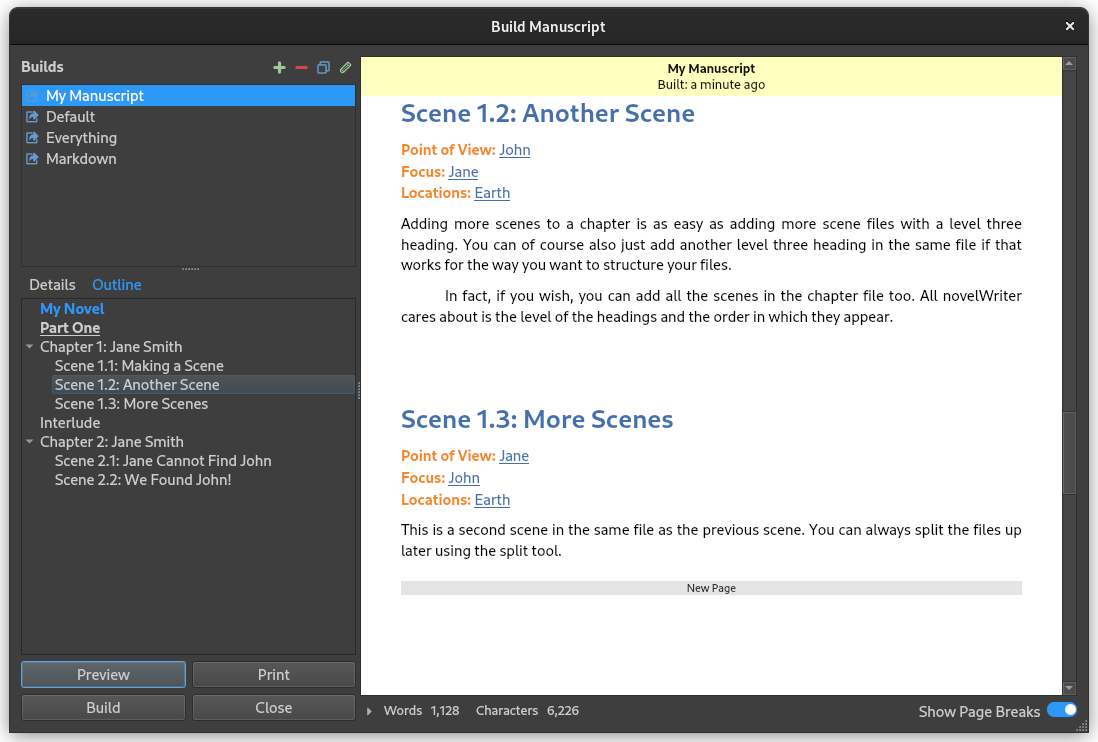
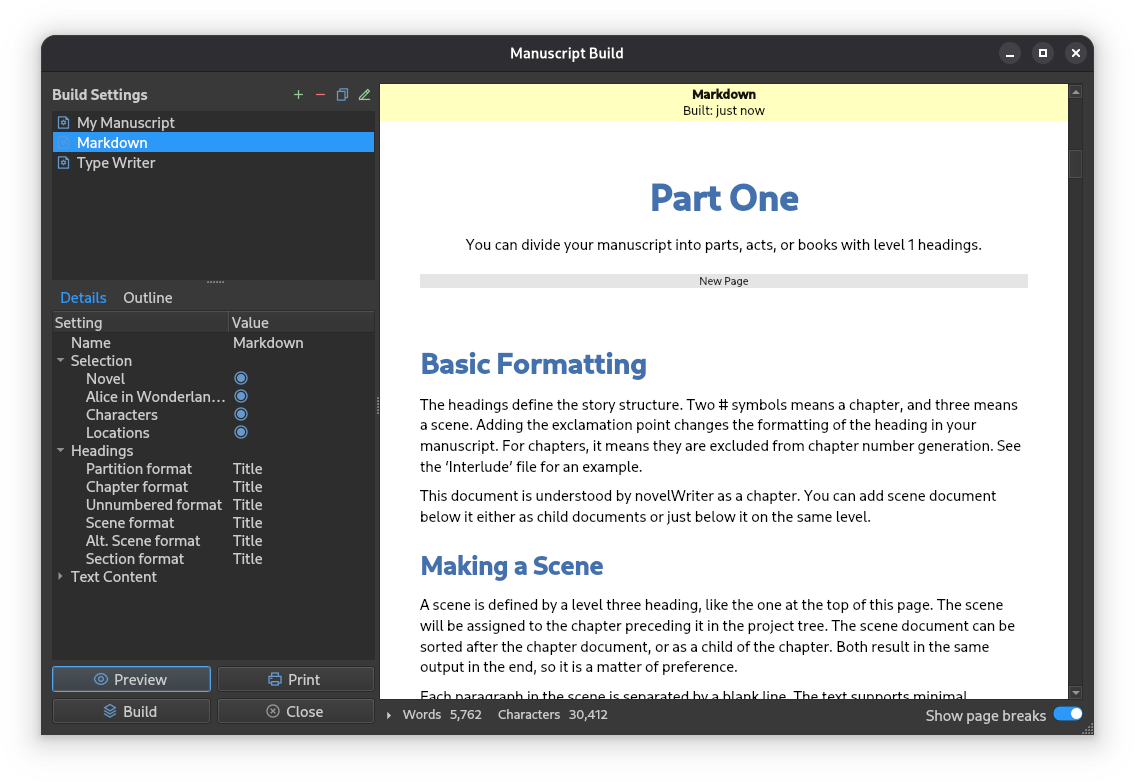
Update the manuscript build dialogs and the screenshots in docs

diff --git a/novelwriter/tools/manusbuild.py b/novelwriter/tools/manusbuild.py
@@ -1,5 +1,5 @@
 """
-novelWriter – GUI Manuscript Build
+novelWriter – GUI Build Manuscript
 ==================================
 
 File History:
@@ -56,10 +56,10 @@ logger = logging.getLogger(__name__)
 
 
 class GuiManuscriptBuild(NDialog):
-    """GUI Tools: Manuscript Build Dialog.
+    """GUI Tools: Build Manuscript Dialog.
 
     This is the tool for running the build itself. It can be accessed
-    independently of the Manuscript Build Tool.
+    independently of the Build Manuscript Tool.
     """
 
     D_KEY = QtUserRole
@@ -73,7 +73,7 @@ class GuiManuscriptBuild(NDialog):
         self._parent = parent
         self._build = build
 
-        self.setWindowTitle(self.tr("Manuscript Build"))
+        self.setWindowTitle(self.tr("Build Manuscript"))
         self.setMinimumWidth(500)
         self.setMinimumHeight(300)
 

diff --git a/novelwriter/tools/manuscript.py b/novelwriter/tools/manuscript.py
@@ -117,7 +117,7 @@ class GuiManuscript(NToolDialog):
         self.tbEdit.setToolTip(self.tr("Edit Selected Build"))
         self.tbEdit.clicked.connect(self._editSelectedBuild)
 
-        self.lblBuilds = QLabel(self.tr("Builds"), self)
+        self.lblBuilds = QLabel(self.tr("Build Settings"), self)
         self.lblBuilds.setFont(SHARED.theme.guiFontB)
 
         self.listToolBox = QHBoxLayout()

diff --git a/docs/source/user_interface/manuscript.rst b/docs/source/user_interface/manuscript.rst
@@ -26,7 +26,7 @@ The Manuscript Build Tool
 =========================
 
 .. figure:: images/fig_manuscript_build.png
-   :width: 80%
+   :width: 90%
 
    The **Manuscript Build** tool main window.
 
@@ -39,7 +39,7 @@ Outline and Word Counts
 -----------------------
 
 .. figure:: images/fig_manuscript_build_outline.png
-   :width: 80%
+   :width: 90%
 
    The **Manuscript Build** tool main window with the **Outline** visible.
 
@@ -64,8 +64,8 @@ by double-clicking or by selecting it and pressing the edit button in the toolba
 .. tip::
 
    You can keep the **Manuscript Build Settings** dialog open while testing the different options,
-   and just hit the :guilabel:`Apply` button to update the preview in the main
-   **Manuscript Build** window. When you're happy with the result, you can close the settings.
+   and just hit the :guilabel:`Apply` button to update the preview in the main **Manuscript Build**
+   window. When you're happy with the result, you can close the settings.
 
 
 .. _docs_ui_manuscript_selection:
@@ -228,7 +228,7 @@ Building Manuscript Documents
 .. figure:: images/fig_build_build.png
    :width: 80%
 
-   The **Manuscript Build** dialog used for writing the actual manuscript documents.
+   The **Build Manuscript** dialog used for writing the actual manuscript documents.
 
 When you press the :guilabel:`Build` button on the **Manuscript Build** tool main window, a special
 file dialog opens up. This is where you pick your desired output format and where to write the